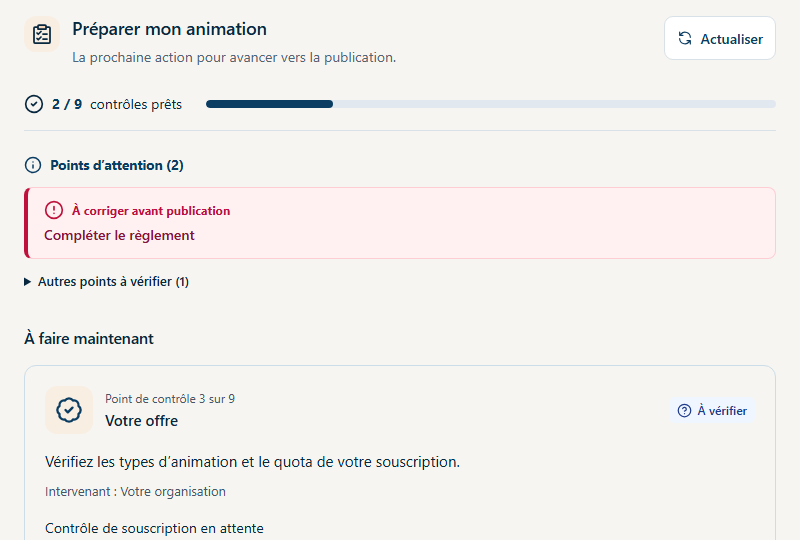
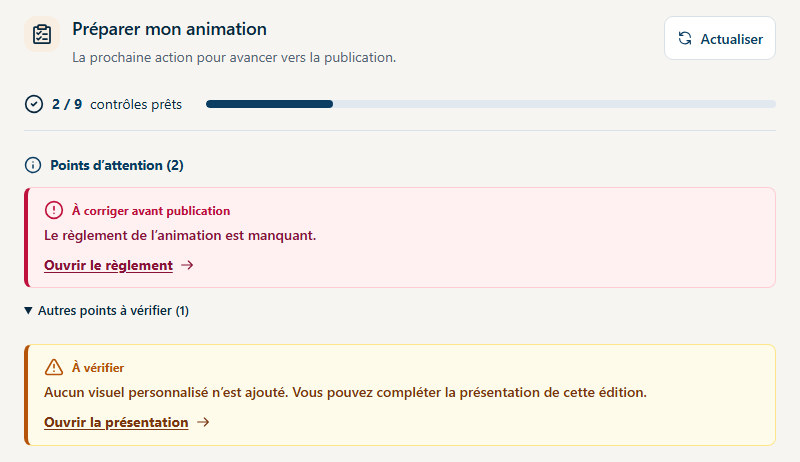
docs(animation): documenter les liens des points d’attention

diff --git a/docs/specifications/epic-73-animation-et-ou-coffrets/perimetres-parcours-saas.md b/docs/specifications/epic-73-animation-et-ou-coffrets/perimetres-parcours-saas.md
@@ -592,6 +592,29 @@ Actualités reste contrôlée et l’accès direct interdit reste expliqué.
 Le chargement différé d’une rubrique garde la navigation et les actions
 affichées ; aucune écriture ni transition n’est exécutée par le menu.
 
+#### Évolution du 25 novembre 2026 — liens des points d’attention
+
+**E73-EVO-LIENS-POINTS-ATTENTION** rend les cartes rouges et orange de
+**Préparer mon animation** cliquables. Chaque carte affiche sa destination et
+peut être ouverte au clavier. Les informations communes restent consultables
+dans la synthèse.
+
+- **PA-01**. Le lien vise la rubrique du contrôle, y compris quand le message
+  figure dans plusieurs étapes. L’échéance de réponse ouvre le calendrier, les
+  réponses ouvrent les invitations, les vérifications sur place ouvrent Terrain
+  et les contrôles de dotation ouvrent les lots. Pour un diagnostic sans
+  destination déterminée ou dépendant de Localeo, le lien ouvre l’aide de l’édition.
+- **PA-02**. La navigation place le focus à destination et permet de revenir
+  au contrôle. L’ouverture est une consultation. Toute écriture utilise les
+  commandes, droits et confirmations de l’écran cible.
+- **PA-03**. Les deux sévérités sont vérifiées en navigateur, sur bureau et
+  mobile. Le guide Animation explique le geste et illustre la synthèse à jour.
+
+Les liens concernent l’organisateur dans Animation. L’interface réutilise les
+réponses API, les routes, la configuration d’exploitation et les jeux de
+démonstration existants. Localeo Pro utilise ses propres rubriques pour les
+gestes des commerçants.
+
 ### Identification et détail d’une participation — 11 novembre 2026
 
 Dans les gagnants, le suivi des gains (Coffrets, lots externes, bons numériques)

diff --git a/docs/specifications/epic-73-animation-et-ou-coffrets/verification-livraison.md b/docs/specifications/epic-73-animation-et-ou-coffrets/verification-livraison.md
@@ -6132,3 +6132,25 @@ la conservation de l’engagement pris à la confirmation et le contrôle de sa
 révocation. Le parcours navigateur support a réussi en consultation et en
 intervention à 390 et 1 280 px. Pour l’organisateur, 45 scénarios ont réussi
 à 320, 390 et 1 280 px, soit 620 vérifications.
+
+## Liens des points d’attention — 25 novembre 2026
+
+Les [critères PA-01 à PA-03](perimetres-parcours-saas.md#évolution-du-25-novembre-2026--liens-des-points-dattention) ont été vérifiés en local avec des réponses API fictives.
+
+- **PA-01**. `pnpm test` a réussi ses 437 tests. Les contrôles de navigation
+  couvrent la déduplication, les destinations par modèle, les avertissements
+  et l’aide contextualisée. `assistant-guidance-ux.mjs` a réussi 48 scénarios,
+  dont 320 px et texte agrandi à 200 %.
+- **PA-02**. `animation-guide.mjs --only=assistant --captures-only` vérifie
+  les deux liens, le focus, le retour et l’absence d’écriture à 390 et 1 024 px.
+  `hunt-preparation.mjs --assistant-only` vérifie Calendrier et Terrain à 390
+  et 1 280 px. La recette Chasse complète échoue ensuite sur la visibilité du
+  champ « Nom de la chasse » après l’ouverture d’Organisation et lots. Le
+  même échec est reproduit avec la recette et un build antérieurs à l’évolution.
+- **PA-03**. Toutes les pages du guide Animation ont été rendues et relues. Les
+  signets, la copie embarquée et l’accès au PDF depuis Animation
+  ont été vérifiés avec `pnpm guide:check` et `animation-guide.mjs --access-only`.
+  La mise à jour du guide porte sur le parcours organisateur dans Animation.
+
+`pnpm typecheck`, `pnpm lint` et le build isolé `build-generation-tests.mjs`
+ont réussi.

diff --git a/docs/produit/formation/animation/guide-quotidien-animation.md b/docs/produit/formation/animation/guide-quotidien-animation.md
@@ -197,10 +197,10 @@ Lorsque ce suivi est activé, distinguez les commerces **prêts** de ceux encore
 
 **Objectif :** ouvrir une animation aux habitants après les contrôles requis.
 
-![Publication et clôture centralise le contrôle de préparation, les blocages et les transitions disponibles.](illustrations/guide-quotidien/publication-1024.png)
+![Dans Préparer mon animation, les cartes indiquent la rubrique à ouvrir.](illustrations/guide-quotidien/assistant-1024.png)
 
 1. Revenez à l'**Assistant** ou à **Publication et clôture** pour consulter les contrôles à jour.
-2. Traitez chaque point bloquant dans la rubrique indiquée : règlement, données du jeu, accords, dotation ou financement selon le cas.
+2. Dans **Préparer mon animation**, sélectionnez une carte rouge ou orange pour ouvrir la rubrique indiquée. Dépliez **Autres points à vérifier** pour afficher les suivants. Traitez les blocages signalés.
 3. Relisez les avertissements et vérifiez la présentation destinée aux habitants. Un contrôle réussi ne publie pas automatiquement.
 4. Utilisez **Publier** lorsqu'il est proposé, puis confirmez. Attendez la confirmation à l'écran et vérifiez le nouvel état.
 

diff --git a/docs/produit/formation/animation/illustrations/guide-quotidien/README.md b/docs/produit/formation/animation/illustrations/guide-quotidien/README.md
@@ -1,5 +1,23 @@
 # Captures du guide utilisateur Animation
 
+## Points d’attention de l’Assistant du 25 novembre 2026
+
+`assistant-1024.png` et `assistant-390.png` montrent un règlement manquant et
+un avertissement sur la présentation, ainsi que les liens vers leurs rubriques.
+La capture de bureau figure dans le geste **Vérifier puis publier**.
+Elle provient de l’interface Animation sur la base `3189f02`, avec cette
+évolution et des réponses API fictives.
+
+Depuis `localeo-animation`, générer la capture et vérifier les destinations
+au clavier et au clic sur un serveur local à port éphémère.
+
+```powershell
+$env:ANIMATION_TEST_DIST = 'tmp/assistant-attention-guide-dist'
+$env:ANIMATION_GUIDE_CAPTURE_ROOT = 'tmp/assistant-attention-captures'
+node scripts/build-generation-tests.mjs
+node tests/browser/animation-guide.mjs --only=assistant --captures-only
+```
+
 ## Choix des commerces pendant la création du 25 novembre 2026
 
 `selection-reseau-creation.png` illustre le geste **Choisir les commerces à

diff --git a/docs/roadmap/terminees/epic-73-animation-et-ou-coffrets-backlog.md b/docs/roadmap/terminees/epic-73-animation-et-ou-coffrets-backlog.md
@@ -1562,3 +1562,9 @@ confirmé depuis son détail. Un opérateur support peut effectuer les mêmes ge
 existant et couvre aussi les lots antérieurs déjà confirmés.
 [Critères IT-01 à IT-03](../../specifications/epic-73-animation-et-ou-coffrets/modules-souscriptions-import-communication.md#e73-evo-import-traitement-portail)
 et [preuves locales](../../specifications/epic-73-animation-et-ou-coffrets/verification-livraison.md#traitement-des-imports-depuis-animation--25-novembre-2026).
+
+## Évolution du 25 novembre 2026 — liens des points d’attention
+
+**E73-EVO-LIENS-POINTS-ATTENTION** ouvre la rubrique utile depuis les cartes
+rouges et orange de **Préparer mon animation**.
+[Critères PA-01 à PA-03](../../specifications/epic-73-animation-et-ou-coffrets/perimetres-parcours-saas.md#évolution-du-25-novembre-2026--liens-des-points-dattention) et [preuves locales](../../specifications/epic-73-animation-et-ou-coffrets/verification-livraison.md#liens-des-points-dattention--25-novembre-2026).
